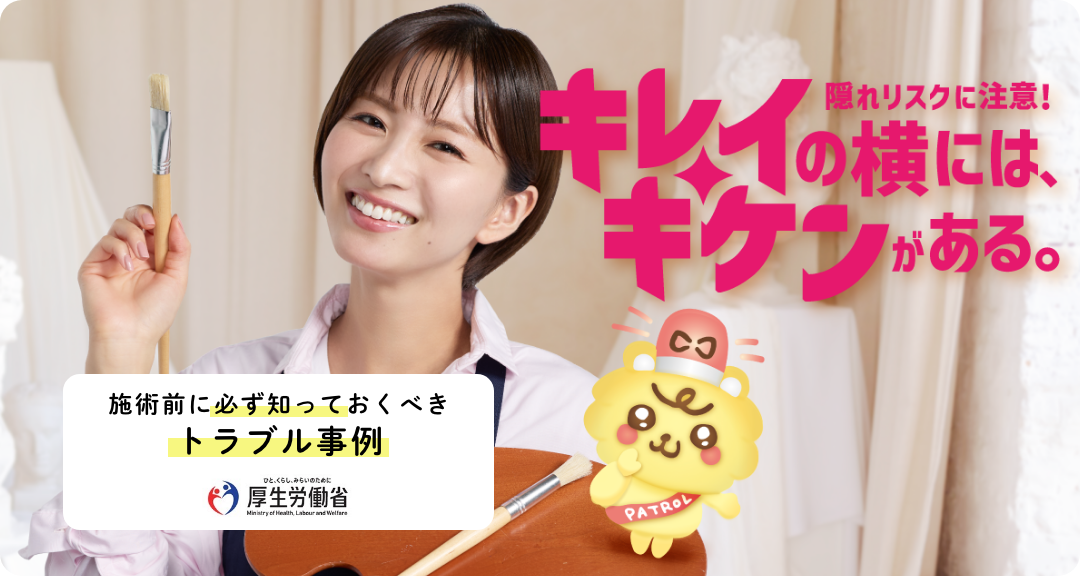
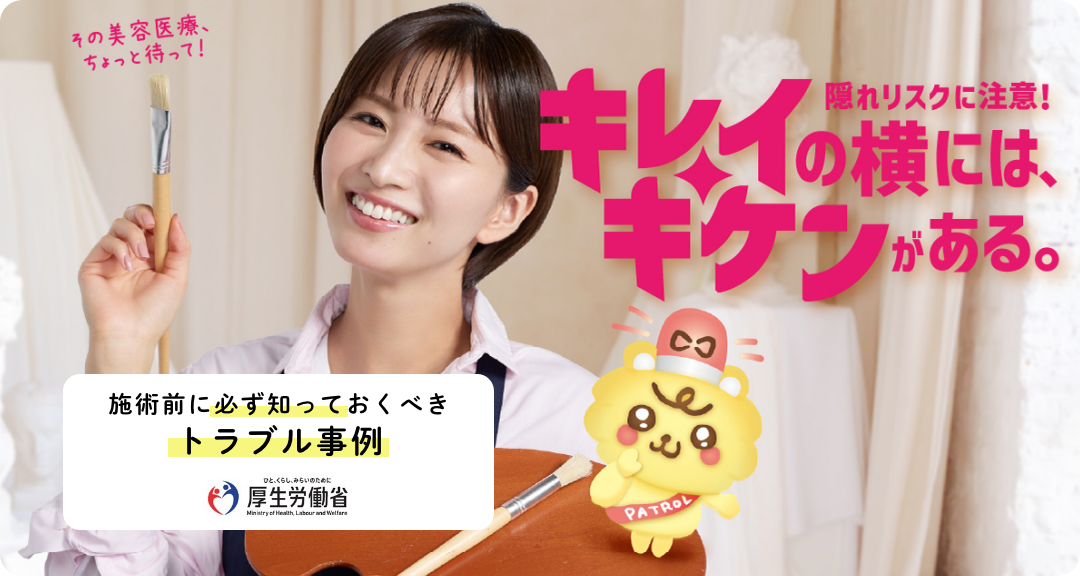
美容医療_修正

diff --git a/aesthetic-medicine-caution/index.html b/aesthetic-medicine-caution/index.html
@@ -70,14 +70,18 @@
 				<div class="inner">
 					<h2><img src="img/ttl05.png" alt="最新情報" class="ttl05"></h2>
 					<div class="news-list">
+						  <div class="news-item">
+    <span class="news-date">2026.●.●●</span>
+    <span class="news-text">動画コンテンツを追加</span>
+  </div>
   <a href="pdf/20251226_artmake-notice.pdf" target="_blank" class="news-item">
     <span class="news-date">2025.12.26</span>
-    <span class="news-text">「美容所等におけるアートメイク施術について」を公開しました</span>
+    <span class="news-link">「美容所等におけるアートメイク施術について」を公開しました</span>
   </a>
 
   <a href="pdf/20251226_artmake-notice.pdf" target="_blank" class="news-item">
     <span class="news-date">2025.8.15</span>
-    <span class="news-text">「美容医療に関する取扱いについて」を公開しました</span>
+    <span class="news-link">「美容医療に関する取扱いについて」を公開しました</span>
   </a>
 
   <div class="news-item">
@@ -102,7 +106,7 @@
 						<a href="https://youtu.be/rQPKRSKEhgc" target="_blank"><img src="img/movie06.jpg" alt=""></a>
 						</div>
 						<div class="box2">
-							<h3>美容医療をもう一度受ける前に編</h3>
+							<h3>美容医療を受ける前にもう一度編</h3>
 						<a href="https://youtu.be/ewCFMlF3slA" target="_blank"><img src="img/movie07.jpg" alt=""></a>
 						</div>
 

diff --git a/aesthetic-medicine-caution/css/styles.css b/aesthetic-medicine-caution/css/styles.css
@@ -1068,7 +1068,7 @@ nav a:hover {
   flex: 1; /* 残りの幅をすべて使う */
 }
 
-.news-item .news-text {
+.news-item span.news-link {
   text-decoration: underline; /* ホバー時に下線を表示 */
 }
 
